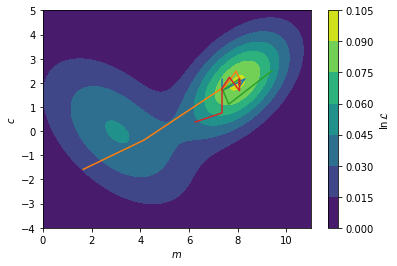
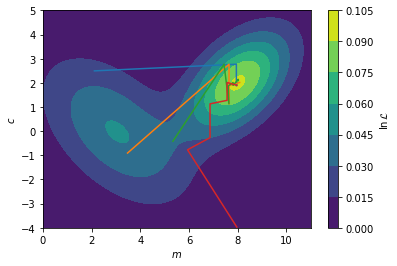
deploy: 2092d52b5d1039ff83758581a9d8e2a471190f30

diff --git a/searchindex.js b/searchindex.js
@@ -1,1 +1,1 @@
-Search.setIndex({docnames:["1_the_fourier_transform/an_introduction_to_fourier_transforms","1_the_fourier_transform/fourier_transforms_for_reflectometry_analysis","2_model_dependent_analysis/what_is_model_dependent_analysis","3_reflectometry_slab_models/how_we_calculate_the_reflectivity_of_a_slab_model","3_reflectometry_slab_models/optical_parameters_for_neutrons_and_xrays","3_reflectometry_slab_models/roughness_and_microslicing","3_reflectometry_slab_models/the_slab_model","4_model_reparameterisation/a_case_for_model_reparameterisation","4_model_reparameterisation/niti_multilayer_example","4_model_reparameterisation/phospholipid_monolayer_example","5_fitting_processes_and_problems/how_do_we_maximise_the_likelihood","5_fitting_processes_and_problems/how_to_leverage_our_prior_knowledge","5_fitting_processes_and_problems/what_is_the_likelihood","contributors","intro"],envversion:{"sphinx.domains.c":2,"sphinx.domains.changeset":1,"sphinx.domains.citation":1,"sphinx.domains.cpp":5,"sphinx.domains.index":1,"sphinx.domains.javascript":2,"sphinx.domains.math":2,"sphinx.domains.python":3,"sphinx.domains.rst":2,"sphinx.domains.std":2,"sphinx.ext.intersphinx":1,"sphinxcontrib.bibtex":9,sphinx:56},filenames:["1_the_fourier_transform/an_introduction_to_fourier_transforms.md","1_the_fourier_transform/fourier_transforms_for_reflectometry_analysis.ipynb","2_model_dependent_analysis/what_is_model_dependent_analysis.md","3_reflectometry_slab_models/how_we_calculate_the_reflectivity_of_a_slab_model.ipynb","3_reflectometry_slab_models/optical_parameters_for_neutrons_and_xrays.ipynb","3_reflectometry_slab_models/roughness_and_microslicing.ipynb","3_reflectometry_slab_models/the_slab_model.md","4_model_reparameterisation/a_case_for_model_reparameterisation.md","4_model_reparameterisation/niti_multilayer_example.ipynb","4_model_reparameterisation/phospholipid_monolayer_example.ipynb","5_fitting_processes_and_problems/how_do_we_maximise_the_likelihood.ipynb","5_fitting_processes_and_problems/how_to_leverage_our_prior_knowledge.md","5_fitting_processes_and_problems/what_is_the_likelihood.ipynb","contributors.md","intro.md"],objects:{},objnames:{},objtypes:{},terms:{"0":[1,3,4,5,9,10,11,12,14],"000":10,"00000j":4,"00001":4,"00039":14,"001":[1,3,5],"00260":14,"003":14,"00461223":4,"0053":14,"007":14,"00890j":4,"012":14,"01934":4,"01980001503076100":14,"02":14,"022":[8,14],"024053695190667e":4,"02614057":10,"0294":14,"03":14,"03156j":4,"033":10,"03342360":4,"044804995824017e":4,"04493869":10,"0469":14,"0478":4,"04893":14,"0496667614679125":12,"05":4,"05139":4,"06":[4,5,8],"06760142":10,"06j":4,"07":14,"074":1,"074e":[1,5],"078":14,"092":10,"0j":[3,5],"1":[0,1,3,4,5,8,9,10,11,12,14],"10":[1,4,5,8,10,12,14],"100":4,"1000":[1,3,9,10,12],"1008202821328":14,"1016":14,"1023":14,"1039":14,"104":1,"1051":14,"106":4,"107":14,"108":14,"1098":14,"10j":4,"11":[4,10,14],"1103":14,"1107":14,"1119":14,"1198":14,"12":[1,5,12,14],"1204":14,"14":[4,5],"15":[9,14],"155":14,"16":[1,3],"167":10,"17":5,"1761":14,"1763":14,"18":[4,9,14],"180":4,"18200033":10,"186":1,"186e":[1,3,5],"19":[9,10,14],"193":14,"1948":14,"194812030504":14,"1954":14,"197":14,"1980":14,"1997":14,"1998":14,"1999":14,"1e":[4,5],"1e6":4,"1f77b4":12,"1j":[1,3],"2":[1,3,4,5,8,10,12,14],"20":[1,3,5],"200":[1,3,5,14],"2005":14,"2006":14,"2007":14,"200q":1,"2010":14,"2011":14,"2018":14,"2019":14,"2021":[4,14],"2022":14,"20384101638663543":12,"204":14,"21":14,"22":4,"23":8,"248":14,"25":1,"25e":5,"26":4,"265":9,"265n_c":9,"2827":14,"2848":14,"297":14,"2f":1,"2k_nk_":5,"3":[1,3,4,5,6,8,10,12,14],"300":[1,3],"311":14,"3254017":14,"33":14,"338":14,"339":14,"341":14,"342":14,"35":4,"357":14,"359":14,"369":14,"370":14,"3blue1brown":0,"3e":8,"4":[1,3,4,5,6,8,10,12,14],"40":14,"41":14,"417":8,"417e":8,"418":14,"42":[12,14],"4245e":5,"434":14,"438":8,"44":14,"4526":14,"46":1,"47":[8,14],"471":14,"4e":4,"5":[1,3,4,5,9,10],"50":[4,5],"500":[1,3,5],"504":14,"51":8,"52":[4,14],"520":14,"53":14,"531":14,"533605403282578e":4,"54":[4,14],"58":8,"59":14,"596":14,"5q":3,"6":[1,3,4,5,8,10,14],"600":4,"6133":14,"6141":14,"646e":4,"648":14,"649":14,"67e":4,"69":8,"7":[4,5,9,10,12],"75e":4,"761":14,"77708968431255":4,"779":14,"78":14,"8":[1,4,5,8,10,12],"817940326e":4,"83e":4,"856832":14,"867":8,"87":14,"871":1,"871e":[3,5],"874":4,"9":[5,8,14],"90":9,"908":8,"91":8,"922868":14,"95":14,"951e":8,"978":14,"98":[1,14],"983011590323767e":4,"99":14,"9957561":10,"99615666":10,"99998503":10,"99999727":10,"\u00e0":14,"\u00e5":[0,1,3,5,8,9],"\u00e8":14,"\u00e9":14,"\u00f6":14,"\u00fc":14,"abel\u00e8":[3,5],"abstract":8,"angstrom\u00b3":4,"br\u00f6hl":14,"case":[1,4,6,11],"do":[1,2],"float":[8,10,12],"function":[1,2,3,5,6,9,10,12],"import":[1,2,3,4,5,6,7,8,9,10,12],"int":1,"new":14,"return":[1,3,4,8,10,12],"switch":14,"true":[7,10],"try":10,"while":[4,7,8],A:[1,2,4,5,6,8,9,10],As:[6,9],Be:10,By:2,For:[1,4,8,9,12,14],If:[1,2,10,11,12,14],In:[1,4,6,7,9,10,11,14],It:[1,2,4,5,6,9,10,11],No:5,One:9,The:[0,2,3,4,5,7,8,9,10,12,14],Then:[1,2,3],There:[5,10],These:[1,5,10],To:[1,5,7],_:[1,3],ab:[1,3],abel:[3,5,14],abeles48:[3,14],abeles_with_rough:5,abl:5,about:[7,9,10,11],abouv:1,abov:[1,2,5,8,10,12],abscissa:12,absolut:10,absorpt:4,academ:14,accept:[1,11],accor:4,accord:4,account:5,accur:[2,5,7],acf2:1,acf:1,achiev:[1,5,9,11],across:12,act:9,action:1,ad:9,adapt:5,add:[4,9],add_patch:5,addit:[1,7,9],addition:[2,3,5,7,8,10],admittedli:5,advanc:14,affect:9,after:[1,4,10],again:[1,5],against:6,agnet:14,agre:12,agreement:[2,10,12],aid:3,aim:[10,12,14],air:[1,4,5,9,14],al:7,alexand:13,algorithm:[2,10,11,14],align:1,all:[0,3,4,10,11],allow:[7,8,9,10],alon:10,alonso:14,alpha:[1,4,12],alpha_0:4,alpha_1:4,alreadi:[2,11],also:[4,8,9],although:1,alwai:4,am:14,amphiphil:9,an:[2,4,5,6,7,10,11,14],analog:[0,10,12],analys:[10,14],analysi:[3,6,8,9,10,11,12,14],analyt:2,andbook:14,andrew:[13,14],angl:4,angstrom:[4,8],ani:[5,12],anlaysi:14,ann:14,anomagnet:14,anoth:1,anphi:14,api:4,apm:9,appear:1,append:10,appl:14,appli:[1,2,5,7,9,10,14],applic:[3,10,14],approach:[1,2,3,5,6,7,8,9,10,14],approx:1,approxim:[3,14],ar:[0,1,2,3,4,5,6,7,8,9,10,11,12,14],area:7,argmax:10,argsort:10,argument:4,armstrong:13,arnold:[13,14],around:[4,5],arrai:[1,3,5,8,10],artefact:5,artifici:14,artur:[4,13],ask:14,assembl:9,assess:10,assign:8,associ:[11,12,14],assum:9,assumpt:[2,7,8,9],ateri:14,atom:[4,8,9],attach:9,attent:14,australian:13,autocorrel:1,avail:1,avogadro:8,awar:[2,10],ax:[1,5,12],axhlin:1,axvlin:1,b:[3,8,14],b_:[3,4,8],b_i:[8,9],b_n:4,b_ni:8,b_ti:8,back:10,balakrishnan:13,bar:[3,12],base:[2,3,8],basic:14,bay:[11,14],bayesian:[11,14],beam:4,becom:[1,4,10],been:[1,3,5,8,9],befor:[0,4,5,6],begin:[1,3],being:[2,5,12,14],belief:11,believ:2,below:[0,1,2,3,5,6,8,9,10,12],benefit:9,berk:14,best:[9,10,12],beta:[1,3,5,8,9],beta_0:3,beta_1:6,beta_2:6,beta_:[1,8,9],beta_i:9,beta_microsl:5,beta_n:3,beta_ni:8,beta_ti:8,between:[0,1,2,3,5,6,10,12,14],bia:2,bias:11,big:1,bigg:[1,12],biolog:[10,14],bj:14,bjorck11:[10,14],bkg:4,black:[1,10],block:14,blue:[1,10,12],bmatrix:3,book:[1,11,14],booklet:4,born:[3,14],borrow:1,both:[9,14],bound:[8,11],bowen:14,bp63:[11,14],brian:13,bring:3,broad:[2,12],broadli:2,brought:3,bsd:3,c6h14:4,c9cp00203k:14,c:[1,4,10,12,14],calcul:[1,2,4,5,6,9,12],call:6,callback:10,campbel:14,can:[1,2,3,4,5,6,7,8,9,10,11,12],cannot:[5,12],caract:14,carbon:9,carefulli:10,caruana:13,cas_no:4,cation:14,catter:14,caus:9,caution:7,cdot:8,centr:13,ch:4,chanc:14,chang:[1,2,10],chapter:4,character:14,characterist:3,characteristic_matric:3,check:4,chem:14,chemic:[6,7,14],chemistri:2,chi:12,chicago:13,choic:4,christi:4,circ:9,clark:14,classic:4,clear:[2,5,6,10],clearer:3,clearli:5,clifton:14,close:[3,4],cm:8,co:[1,4],coci:14,code:[5,8,10,14],coher:4,cold:4,colloid:14,color:12,colorbar:10,com:4,comfort:14,comment:4,common:[2,5,6,8,9,10],commonli:[1,7,10,12],compar:[2,3,5,7,12],comparison:6,complementari:7,complet:[2,10],complex:[3,4,9,10,14],composit:9,computation:10,concept:7,conclus:10,condens:14,conj:3,conjug:3,consid:[1,2,3,5,6,8,9,10,11,12],consider:10,consist:[6,8,9],constant:[2,8,11],constrain:[8,9],constraint:[7,9],construct:[2,3,6,11],consult:9,contain:4,content:14,context:2,continu:14,contourf:10,contrast:10,contribut:[4,14],convenit:4,convers:7,cooper:13,cosin:1,could:[6,11],coupl:10,cours:14,cover:[2,14],creat:5,croce:[5,14],crystal_data:4,crystallogr:14,crystallographi:1,css:[9,14],cu:4,cubitt:14,curr:14,current:[10,14],current_theta:10,curv:4,curve_fit:12,d:[1,3,5,12,14],d_1:6,d_2:6,d_h:9,d_i:9,d_microsl:5,d_n:3,d_t:9,dan:14,data:[1,2,3,4,5,6,7,8,9,10,11,12,14],data_origin:4,databas:8,datapoint:12,dataset:[1,10,12],de:14,decomposit:0,deep:14,def:[1,3,8,10,12],defin:[1,2,4,6,7,8,9,12],definit:4,deg2rad:9,delta:1,denot:1,densiti:[1,3,5,6,7,9],depend:[1,4,6,8,9,10,11,12,14],deposit:8,deriv:[1,6],descent:10,descirb:4,describ:[2,3,4,5,6,7,10,11,12],descript:[1,4,7,9],design:11,desir:[8,10],deslatt:14,destruct:6,detail:[0,1,2],detector:6,determin:[3,10,14],deuter:4,develop:14,deviat:[3,12],devind:[1,11,14],diatom:2,dictionari:4,diff:[1,3],differ:[1,5,6,14],differenti:[10,11,14],differential_evolut:10,difficult:9,diffract:1,dimens:[1,6],dimension:10,dioxid:[1,5],directli:[4,8],discoveri:10,discuss:[1,5,6,12],disposit:8,distanc:1,distinct:1,distribut:[10,12],divid:1,docstr:3,doctrin:14,doe:[2,3,4,5],doi:[4,14],domain:0,done:12,dot:12,downhil:10,dppc:9,dr:[1,11],draw:[10,14],dtype:3,du:14,due:[1,2],dura:14,dvanc:14,e:[4,6,14],e_x:4,each:[3,5,6,8,9],easili:[8,10],edg:4,edgecolor:5,edit:14,editor:14,edler:14,effect:[1,4,5,10,14],effici:14,eflect:14,elast:0,electron:4,element:[4,8,12],elementari:[1,14],eleph:14,els:2,enabl:[5,11],encount:[2,10],end:[1,3],energi:4,ensur:[2,10],entir:2,entri:4,enumer:12,enzym:2,equat:[1,2],equival:4,error:[5,12],errorbar:12,especi:4,essai:14,essenti:0,estim:1,et:7,euroepan:13,european:14,eutect:14,eutron:14,evalu:[8,14],eventu:10,ever:2,everi:9,evolut:[10,11,14],evolutionari:10,exampl:[2,4,5,6,7,10,11],exhaust:14,exist:[5,10],exp:[1,3,5],expand:14,expect:[2,11],experi:[2,4,14],experiment:[2,6,7,12],expert:14,explicitli:1,exploit:14,explor:1,extend:9,extrem:9,f:[1,3,4,8,14],fact:11,factor:[3,4,12],fair:2,fals:5,familiar:[1,2,7],fantast:1,far:12,fashion:10,fe:4,feed:10,feedback:14,feel:14,fernandez:14,ff7f0e:12,field:[4,9,14],fig:[1,5,6,9,12],figsiz:[1,5,12],figur:[1,2,5,10,12,14],file:4,fill:5,fill_between:12,find:[1,2,5,8,9,10,11,12,14],find_peak:1,first:[1,2,3,6,7,8,10,12],fit:[2,7,8,10,12,14],fitzsimmon:14,flat:[1,5],flavour:[7,10],flexion:14,flow:2,fm05:14,fm:8,focu:14,focus:0,follow:[1,8,9,10,12,14],forc:2,form:[1,10],formal:[3,5],format:14,formula:4,found:[1,3,5,8,9,10,11],four:14,fourier:[2,3,6,14],fourier_transform:1,frac:[1,3,4,5,8,9,11,12],fraction:9,francoi:13,free:[7,10,14],frensel:3,fresnel:[3,5],fresnel_reflect:3,fring:1,from:[0,1,2,3,5,6,7,8,9,10,12,14],fstring:4,fu:4,fu_volum:4,full:1,fulli:9,fundament:[0,6],further:[10,11],futur:14,g:[8,14],gaetano:13,gain:1,garbag:2,gcm:8,gener:[2,10,14],genet:14,geometri:6,gerelli:14,get:[2,12],github:[4,14],give:[0,3,7,14],given:[5,6,9,10,12],glavic:[4,13],glob:14,global:[10,14],go:[3,6,10],good:12,gradient:12,gradient_callback:10,gradient_v:10,gradual:14,graphic:8,great:[0,11],greater:1,group:9,grutter:13,guess:10,guntherodt:14,h:14,ha:[1,5,8,9,14],hall:13,hand:5,hard:8,harder:10,have:[1,2,3,9,10,11,12],head:9,heavier:4,heavili:[9,12,14],heavisid:1,heinrich:14,helmholtz:13,helper:[5,10],henc:[0,12],henomena:14,here:[3,4,12],hereon:13,heurist:14,higher:9,hoogerheid:14,hopefulli:6,horizont:1,how:[2,6,7,9,12,14],howard:14,howev:[1,2,5,6,7,8,10,12],hr_formula:4,http:4,hydrocarbon:9,hydrophil:9,hydrophob:[9,14],i10q:1,i:[1,3,4,6,8,9,12],id:4,identifi:5,ignor:[4,5],ill:4,illinoi:13,illustr:4,imag:4,imaginari:4,impact:[0,5],implement:[3,5,10],impli:5,impos:11,improv:2,inaccur:5,incid:[1,6],includ:[0,2,3,8,9,14],incorrectli:5,increas:[5,10,12],independ:2,indic:[1,4,10,12],individu:[3,4,8],induc:14,influenc:5,inform:[1,4,7,14],infti:1,inher:2,initi:10,input:3,insect:10,insight:[2,14],insolubl:9,inspir:10,instead:[1,3,8,10,11],institut:13,instrument:9,integr:11,intens:[1,10],interact:[0,1],intercal:9,intercept:12,interest:[0,2,14],interfac:[3,4,5,6,9,14],interfer:[1,6],interpret:[2,5],interrog:[5,10],introduc:[2,5,6,7,9,11],introduct:[11,14],inv_fourier_transform:1,invalid:4,invers:[1,14],investig:[1,2,7,10],involv:[6,8],iron:4,isbn:14,isi:[13,14],isotop:10,issu:[1,14],its:8,j:14,jackson:14,jci:14,jean:13,john:[7,14],joshaniel:13,jpsc21:[7,14],k0:3,k:[1,3,4,10,14],k_0:3,k_:[3,5],k_n:[3,5],karin:14,kev:4,keyword:4,khairi:14,kienzl:14,kinan:4,kinet:2,kn:3,knowledg:14,known:[2,9],kronm:14,l:[10,11,12,14],la:14,label:[1,3,4,5,10],lak19:14,lakei:14,lambda:4,languag:[7,14],larg:[1,14],later:[6,8],latter:7,law:4,lawrenc:14,layer:[3,4,5,6,8,9],le:14,lead:[0,1,2,4,5,6],leak:5,learn:9,lectromagn:14,left:[4,5],legend:[1,3,4,5],length:[1,3,5,6,7,9],leq:1,less:6,let:[0,1,11],licens:3,light:14,like:[1,2,5,9,11],likelihood:11,limit:[1,2,8,9],line:[1,4,10,12],linearli:12,linspac:[1,3,4,5,9,10,12],lipid:14,liquid:14,list:[4,14],literatur:9,ller:14,ln:[10,12],loadtxt:12,local:10,log:[1,3,5,12],logic:[2,11,14],loglog:4,logpdf:10,lond:14,look:[0,1,2,3,7,10,11,12],loss:1,lost:6,lovel:14,low:3,lr99:[2,14],ls:12,lw:12,m:[3,4,10,12,14],m_:[3,8],m_e:4,m_w:8,m_w_ni:8,m_w_ti:8,made:[2,7,8],magnet:[4,14],magnetic_field:4,magnitud:1,mai:[1,2,7,8,12,14],majkrzak:14,major:[8,12],make:[2,3,4,7,9,14],mangiapia:13,mani:[10,14],maranvil:13,mark:13,marker:12,mass:7,match:[1,4],materi:[1,3,4,5,6,8],mathcal:[10,11,12],mathemat:14,mathit:[1,3],mathrm:[1,3,8,9,12],matnei:14,matplotlib:[1,3,4,5,9,10,12],matric:3,matrix:[3,5],matter:[8,14],matyszewska:14,max:[1,3,12],maxima:10,maximilian:13,maximis:[11,12],maximum:[9,10,11,12],mayer:14,mbd:[1,14],mccluskei:[13,14],mead:10,mean:[1,5,8,9,10,12],measur:[0,1,2,6,7,11,12,14],media:3,member:10,membran:14,menten:2,mention:9,merit:2,meshgrid:10,method:[3,5,14],methodolog:[1,2,5,10],metri:14,metric:[10,12],micel:14,micha:2,might:[2,14],milieux:14,minim:10,minimis:[10,12],minimum:[10,11],mkh10:[2,14],mn_d2o:4,mn_h2o:4,mn_layer:4,modal:10,model:[1,4,5,8,9,10,11,12,14],modifi:[3,5],modul:[4,5,10],mol:8,molecul:[2,7],molecular:8,moment:4,monolay:14,more:[0,2,4,5,7,8,9,10,11,12],most:[3,4,5,6,10],moulin:13,move:10,movement:14,msfe:[9,14],mu:4,much:[3,6],multi:10,multivariate_norm:10,muon:13,must:[2,5,9],mv1:10,mv2:10,mv:10,mx_h2o:4,mx_layer:4,n:[3,4,5,8,9,12,14],n_0:4,n_1:4,n_:[3,12],n_a:8,n_c:9,n_i:4,name:4,nanostructur:14,nation:13,natur:[7,9],nazaruk:14,ndarrai:[1,3,8,10,12],ndata:4,nearbi:10,necessari:[3,5,10],need:2,neg:10,neglig:4,nelder:10,nelson:[13,14],neutron:[0,1,2,3,6,7,8,10,13,14],nevot:5,nevotc80:[5,14],newaxi:[1,3],ni:8,nickel:[5,8],nist:4,nll:10,nois:1,noisi:1,non:10,none:[4,10],norm:12,normal:[1,3,4,10,12],normal_wavevector:3,normalis:[1,12],note:[1,2,9,10],notic:[5,12],now:[0,3,5,9,10,12],np19:[3,14],np:[1,3,4,5,8,9,10,12],nuanc:6,number:[1,4,7,8,9,10,12],number_lay:3,number_q:3,numer:1,numpi:[1,3,4,5,8,9,10,12],o:12,observ:[1,5,6,12],obtain:[1,5,8],obvious:6,offer:2,offset:1,often:14,olar:14,onc:[10,14],ond:14,one:[4,9,10,11,12],ones:3,ones_lik:5,onli:[1,5,8,9,12],onlin:8,open:14,opin:14,opinion:14,optim:[10,12,14],optimis:[9,10],optimum:10,orang:[10,12],order:[4,6,10],organis:14,orient:4,origin:14,orsopi:4,other:[9,12],our:[1,2,5,6,7,8,9,10,12],out:[2,11],outsid:[4,11],over:14,overal:[3,10,12],overview:0,oxford:14,p0:3,p1:3,p:[11,12,14],packag:[3,4,8],page:14,pai:14,panaccion:14,paper:14,par54:[3,14],par:14,param:[1,3,8,12],paramet:[3,5,6,7,8,9,10,11,12,14],parameteris:[7,9,14],pari:14,parker:14,parkin:14,parratt:[3,14],part:[1,4,12],particl:10,particular:[6,7],particularli:14,patch:5,path:[6,10],pattern:[0,1,6],paul:13,pdf:[10,12],peak:1,pedogog:1,pedulla:14,per:7,perfect:5,perfectli:5,perform:[0,1,12],periodict:4,perpendicular:1,pg:1,phase:[1,2,3,14],phase_factor:3,phi:3,phi_0:3,phi_i:9,phi_n:3,phi_t:3,phil:14,phospholipid:14,phy:14,physic:[1,2,6,7,9,14],physica:14,physical_st:4,physrev:14,pi:[1,3,4,12],pictori:9,piec:[1,5,8],pint:8,pkienzl:4,place:11,plane:[1,9],pleas:[4,14],plot:[1,3,5,9,10,12,14],plt:[1,3,4,5,9,10,12],point:12,polar:14,polissag:14,popul:10,popular:2,posit:10,possibl:[1,2,5,6,9,10,12],posterior:11,potenti:4,prepar:[2,8],prescott:14,present:[1,2,5],press:14,pressur:9,preston:14,previou:[2,7],previous:[3,5,7,9],price:14,print:[1,4,8,10],probabl:[11,12],probe:[2,10,11],problem:[1,2,10,14],procedur:14,process:[2,7,8,10,14],prod:3,produc:[1,2,14],product:3,profil:[1,5,6],program:14,programat:4,propag:[3,6,14],propos:2,propto:11,proton:4,psi:4,puriti:4,purnima:13,py:[5,10],pyplot:[1,3,4,5,9,10,12],python:[3,4,14],q2:1,q:[0,1,2,3,4,5,14],q_:1,q_x:1,q_y:1,qualiti:10,quantifi:10,quantiti:[4,14],quelqu:14,queri:4,question:14,quick:1,quickli:1,r2:1,r:[1,3,5,6,9,13,14],r_:[3,4,5],r_abel:3,r_e:4,r_fourier:3,r_microsl:5,r_nevot_croc:5,r_with_rough:5,radiat:[0,1,4],radiu:4,rai:[1,14],random:10,rang:[1,2,3,5,10,14],rasant:14,rather:[2,7,8],ratio:6,ration:10,rationalis:1,rayon:14,rck:14,re:10,reach:[8,10],read:14,real:[3,4,5,6],realli:2,reason:8,recent:[9,14],reciev:14,reciproc:4,rectangl:5,recurs:3,red:5,reduc:[7,9],ref_websit:4,refer:4,refin:6,reflecit:4,reflect:[1,2,5,6],reflectmodel:4,reflecto:14,reflectometri:[0,2,3,4,5,6,7,8,9,10,12],refnx:[3,4,14],refract:[3,6],region:[1,5,9,10],rel:4,relat:8,relationship:1,relev:[9,14],reli:3,render:1,reparameteris:[6,8,9,12,14],repeat:8,repositori:14,repres:[2,12],reproduc:3,requir:[7,14],res1:10,res2:10,resolut:[1,2],respect:[1,4],result:[1,2,3,4,5,6,10],resultant_matrix:3,retriv:1,rev:14,review:14,rewrit:1,rho:[3,4,8],rho_:[4,8],rho_fu_lay:4,rho_fu_wat:4,rho_n:4,rho_ni:8,rho_of_:4,rho_ti:8,rho_to_beta:8,rho_vs_:4,richardson:14,right:[1,4,5],risat:14,robust:10,room:8,root:10,rout:10,rphysap:14,rsta:14,rstl:14,rule:5,s0021889811041446:14,s0921:14,s1359:14,s1600576718017016:14,s1600576718017296:14,s:[0,1,4,8,9,10,11,14],saaka:14,sai:1,same:[1,4,5,6,8,12],sampl:[0,1,2,4,5,8],sanchez:14,sansom:14,satija:14,scale:[1,14],scatter:[0,1,3,5,6,7,9,13,14],sche:14,scherrer:13,schlossman:13,school:14,sci:14,scienc:[2,14],scipi:[1,8,10,12],scope:4,search:[4,14],second:4,section:[2,6,7,10],see:[4,5,6,10],seen:[11,12],select:12,self:9,semi:10,semilog:4,sensit:1,separ:1,seri:[1,3,5,6],set:8,set_xlabel:[1,5,12],set_xlim:5,set_ylabel:[1,5,12],set_ylim:5,shao:14,shape:[3,10],shortest:5,should:[1,4,5,7,9,10,12,14],show:[1,2,3,5,6,8,9,10,12,14],shown:[1,2,3,5,6,9,10,12],si:1,sigma2:5,sigma3:5,sigma5:5,sigma7:5,sigma:[5,12],sigma_:5,sigma_n:12,sign:4,signal:1,silic:14,silicon:[1,5,8],similar:[2,3],simpl:[1,2,4,6,7,8,9,10,11,14],simpli:10,simul:[2,5,6,7,8],sin:[4,9],singl:[9,12],sio_2:1,sit:[9,12],siv11:[1,14],sivia:[1,11,14],sj06:[11,14],skill:14,skip:14,sko19:14,skoda:[13,14],slab:[5,7,9,14],sld_:4,sld_n:4,sld_with_rough:5,sld_x:4,slddb:4,sldn_d2o:4,sldn_h2o:4,sldn_layer:4,sldx_layer:4,sldx_water:4,smooth:[1,5],snell:4,so:12,soc:14,soft:14,solid:[4,14],solubl:9,solut:10,solv:14,solvat:9,solvent:[9,14],some:[0,1,2,5,6,9,10,11,12,14],someth:[0,2,4],son:14,sourc:[4,13,14],sp97:[10,14],space:[0,4,10,14],spallat:[13,14],speak:9,specif:[7,9],spectra:2,specular:14,spin:4,spintron:14,springer:14,sqrt:3,squar:[1,3],sratifi:14,staff:9,standard:[12,13,14],start:[10,11],stat:[10,12],state:11,std:1,step:[1,5,10,11],stephen:13,still:[5,8],storn:14,straight_lin:12,straightforward:7,strand:9,stratifi:3,structur:[1,2,4,7,8,14],studi:[1,2,9,14],subject:14,subplot:[1,5,12],suggest:[11,14],sum:[1,3,4,8],sum_:[4,8,9,12],summat:12,superphas:3,sur:14,sure:14,surfac:[1,3,4,8,14],surfact:14,swarm:10,syntax:4,syntaxerror:4,synthesi:2,system:[1,2,5,6,7,8,9,10,14],t:[10,14],t_t:9,tabl:4,tabul:4,tackl:2,tag:4,tail:9,take:[0,2,10,11],taken:[3,6],tan80:[9,14],tanford:[9,14],techniqu:[7,14],technolog:13,temperatur:[4,8],tend:1,term:[6,8,9,12],text:1,textbook:4,textquotesingl:14,than:[1,5,8,10],thei:[1,10,14],them:[5,12],theorem:11,theori:[1,14],therefor:[1,2,5,7,8,10,11],thermal:4,theta:[9,10,11,12],thi:[0,1,2,3,4,5,6,7,8,9,10,11,12],thick:[1,3,5,6,9],thin:5,thing:2,think:7,thopson:4,those:[4,11],thought:1,three:[2,8],through:[3,5,6,14],thu:4,thumb:5,tight_layout:12,time:[0,1,5,8],times10:1,tiqu:14,titanium:8,tkh:[10,14],togeth:3,tom:13,tool:[1,2,7],top4:10,top:1,toperverg:14,total:14,toward:[1,10,14],tradit:[8,9,14],tran:14,transform:[2,3,6,14],translat:7,transmitt:3,treec:14,trigonometri:9,tude:14,turn:10,tutori:[11,14],two:[1,2,3,5,6,7,9,10],txt:12,typic:[2,4,5,6,7,8,9,10,12],tz07:14,u:8,uantum:14,uncertainti:12,unclear:8,under:[1,3,9],underli:[2,12],understand:[1,2,3,6,7,11,14],unintuit:7,uniqu:10,unit:[0,4],unitregistri:8,univers:[13,14],unlik:9,unphys:[1,5],unspecifi:4,until:8,up:10,uphil:10,us:[2,3,4,5,7,8,9,10,11,12,14],useless:1,user:[1,14],utilis:1,valid:4,validated_bi:4,valu:[1,3,4,8,9,10,11,12],valuabl:1,vari:[8,10],variabl:8,varieti:10,variou:4,vector:3,veri:[5,9,10],verr:14,version:1,vibrat:2,video:0,visualis:[1,5],vot:14,w:[8,14],wa:[1,2,6,11,14],wai:[2,4,9],watch:0,water:[4,9,14],wave:[3,6],wavelength:4,wavevector:[1,3],wc19:14,we:[0,1,2,4,5,6,7,8,9,11,12,14],webpag:14,weight:8,welbourn:14,well:2,were:11,what:14,when:[3,6,9,10,11,12],where:[1,2,3,4,5,6,8,9,10,11,12],which:[0,1,3,5,8,9,10,11,12],width:5,wiesendang:14,wikipedia:4,wilei:14,within:11,without:[1,2,5],word:[2,14],work:[5,7,14],workflow:2,workshop:14,wormington:14,would:[1,2,5,6,9,11],wpmb99:[10,14],written:[1,12],wwe:9,x:[1,10,12,14],x_n:12,xlabel:[1,3,4,5,9,10],xlim:4,xy:9,y:[10,11,12,14],y_fit:12,y_n:12,ylabel:[1,3,4,5,9,10],ylim:4,you:[1,2,11,12,14],your:[9,14],yscale:[1,3,5],yy:12,z:[1,3,5,6],zabel:14,zentrum:13,zero:3,zeros_lik:[1,3],zhou:14,zorder:12,zq:1,ztbt07:14},titles:["An introduction to Fourier transforms","Fourier transforms for reflectometry analysis","What is model-dependent analysis?","How we calculate the reflectivity of a slab model","Optical parameters for neutrons and x-rays","Roughness and microslicing","The \u201cslab model\u201d","A case for model reparameterisation","NiTi multilayer example","Phospholipid monolayer example","How do we maximise the likelihood?","How to leverage our prior knowledge?","What is the likelihood?","Contributors","A Guide to Reflectometry"],titleterms:{"case":7,"do":10,A:[7,11,14],The:[1,6],about:14,algorithm:3,an:[0,1],analysi:[1,2],angl:9,approxim:1,area:9,bibliographi:14,born:1,calcul:3,chain:9,contrast:4,contributor:13,databas:4,densiti:[4,8],depend:2,differ:4,exampl:[1,8,9],fourier:[0,1],fresnel:4,from:4,gradient:10,guid:14,how:[3,10,11],implic:4,index:4,interfac:1,interfaci:5,introduct:0,knowledg:11,layer:1,length:[4,8],leverag:11,likelihood:[10,12],mass:8,materi:14,maximis:10,method:10,microsl:5,model:[2,3,6,7],molecul:9,monolay:9,multilay:8,neutron:4,niti:8,optic:4,orso:4,our:11,oxid:1,paramet:4,per:9,phospholipid:9,prior:11,problem:5,rai:4,reflect:[3,4,14],reflectometri:[1,14],refract:4,reparameteris:7,retreiv:4,rough:5,scatter:[4,8],singl:1,slab:[3,6],sld:4,specular:1,stochast:10,term:4,thi:14,tilt:9,transform:[0,1],uniform:11,us:1,vs:14,we:[3,10],what:[0,2,12],x:4}})
+Search.setIndex({docnames:["1_the_fourier_transform/an_introduction_to_fourier_transforms","1_the_fourier_transform/fourier_transforms_for_reflectometry_analysis","2_model_dependent_analysis/what_is_model_dependent_analysis","3_reflectometry_slab_models/how_we_calculate_the_reflectivity_of_a_slab_model","3_reflectometry_slab_models/optical_parameters_for_neutrons_and_xrays","3_reflectometry_slab_models/roughness_and_microslicing","3_reflectometry_slab_models/the_slab_model","4_model_reparameterisation/a_case_for_model_reparameterisation","4_model_reparameterisation/niti_multilayer_example","4_model_reparameterisation/phospholipid_monolayer_example","5_fitting_processes_and_problems/how_do_we_maximise_the_likelihood","5_fitting_processes_and_problems/how_to_leverage_our_prior_knowledge","5_fitting_processes_and_problems/what_is_the_likelihood","contributors","intro"],envversion:{"sphinx.domains.c":2,"sphinx.domains.changeset":1,"sphinx.domains.citation":1,"sphinx.domains.cpp":5,"sphinx.domains.index":1,"sphinx.domains.javascript":2,"sphinx.domains.math":2,"sphinx.domains.python":3,"sphinx.domains.rst":2,"sphinx.domains.std":2,"sphinx.ext.intersphinx":1,"sphinxcontrib.bibtex":9,sphinx:56},filenames:["1_the_fourier_transform/an_introduction_to_fourier_transforms.md","1_the_fourier_transform/fourier_transforms_for_reflectometry_analysis.ipynb","2_model_dependent_analysis/what_is_model_dependent_analysis.md","3_reflectometry_slab_models/how_we_calculate_the_reflectivity_of_a_slab_model.ipynb","3_reflectometry_slab_models/optical_parameters_for_neutrons_and_xrays.ipynb","3_reflectometry_slab_models/roughness_and_microslicing.ipynb","3_reflectometry_slab_models/the_slab_model.md","4_model_reparameterisation/a_case_for_model_reparameterisation.md","4_model_reparameterisation/niti_multilayer_example.ipynb","4_model_reparameterisation/phospholipid_monolayer_example.ipynb","5_fitting_processes_and_problems/how_do_we_maximise_the_likelihood.ipynb","5_fitting_processes_and_problems/how_to_leverage_our_prior_knowledge.md","5_fitting_processes_and_problems/what_is_the_likelihood.ipynb","contributors.md","intro.md"],objects:{},objnames:{},objtypes:{},terms:{"0":[1,3,4,5,9,10,11,12,14],"000":10,"00000j":4,"00001":4,"00039":14,"001":[1,3,5],"00260":14,"003":14,"00461223":4,"0053":14,"007":14,"00890j":4,"012":14,"01934":4,"01980001503076100":14,"02":14,"022":[8,14],"024053695190667e":4,"02614057":10,"0294":14,"03":14,"03156j":4,"033":10,"03342360":4,"044804995824017e":4,"04493869":10,"0469":14,"0478":4,"04893":14,"0496667614679125":12,"05":4,"05139":4,"06":[4,5,8],"06j":4,"07":14,"074":1,"074e":[1,5],"078":14,"092":10,"09425021":10,"0j":[3,5],"1":[0,1,3,4,5,8,9,10,11,12,14],"10":[1,4,5,8,10,12,14],"100":4,"1000":[1,3,9,10,12],"1008202821328":14,"1016":14,"1023":14,"1039":14,"104":1,"1051":14,"106":4,"107":14,"108":14,"1098":14,"10j":4,"11":[4,10,14],"1103":14,"1107":14,"1119":14,"1198":14,"12":[1,5,12,14],"1204":14,"14":[4,5],"15":[9,14],"155":14,"16":[1,3],"167":10,"17":5,"1761":14,"1763":14,"18":[4,9,14],"180":4,"186":1,"186e":[1,3,5],"19":[9,10,14],"193":14,"1948":14,"194812030504":14,"1954":14,"197":14,"1980":14,"1997":14,"1998":14,"1999":14,"1e":[4,5],"1e6":4,"1f77b4":12,"1j":[1,3],"2":[1,3,4,5,8,10,12,14],"20":[1,3,5],"200":[1,3,5,14],"2005":14,"2006":14,"2007":14,"200q":1,"2010":14,"2011":14,"2018":14,"2019":14,"2021":[4,14],"2022":14,"20384101638663543":12,"204":14,"21":14,"22":4,"23":8,"248":14,"25":1,"25e":5,"26":4,"265":9,"265n_c":9,"2827":14,"2848":14,"297":14,"2f":1,"2k_nk_":5,"3":[1,3,4,5,6,8,10,12,14],"300":[1,3],"311":14,"3254017":14,"33":14,"338":14,"339":14,"341":14,"342":14,"35":4,"357":14,"359":14,"369":14,"370":14,"3blue1brown":0,"3e":8,"4":[1,3,4,5,6,8,10,12,14],"40":14,"41":14,"417":8,"417e":8,"418":14,"42":[12,14],"4245e":5,"434":14,"438":8,"44":14,"4526":14,"46":1,"47":[8,14],"471":14,"4e":4,"5":[1,3,4,5,9,10],"50":[4,5],"500":[1,3,5],"504":14,"51":8,"52":[4,14],"520":14,"53":14,"531":14,"533605403282578e":4,"54":[4,14],"58":8,"59":14,"596":14,"5q":3,"6":[1,3,4,5,8,10,14],"600":4,"6133":14,"6141":14,"646e":4,"648":14,"649":14,"67e":4,"69":8,"7":[4,5,9,10,12],"75e":4,"761":14,"77708968431255":4,"779":14,"78":14,"8":[1,4,5,8,10,12],"817940326e":4,"83e":4,"856832":14,"867":8,"87":14,"871":1,"871e":[3,5],"874":4,"88828221":10,"9":[5,8,14],"90":9,"908":8,"91":8,"922868":14,"95":14,"951e":8,"978":14,"98":[1,14],"983011590323767e":4,"99":14,"9957561":10,"99615666":10,"99998503":10,"99999727":10,"\u00e0":14,"\u00e5":[0,1,3,5,8,9],"\u00e8":14,"\u00e9":14,"\u00f6":14,"\u00fc":14,"abel\u00e8":[3,5],"abstract":8,"angstrom\u00b3":4,"br\u00f6hl":14,"case":[1,4,6,11],"do":[1,2],"float":[8,10,12],"function":[1,2,3,5,6,9,10,12],"import":[1,2,3,4,5,6,7,8,9,10,12],"int":1,"new":14,"return":[1,3,4,8,10,12],"switch":14,"true":[7,10],"try":10,"while":[4,7,8],A:[1,2,4,5,6,8,9,10],As:[6,9],Be:10,By:2,For:[1,4,8,9,12,14],If:[1,2,10,11,12,14],In:[1,4,6,7,9,10,11,14],It:[1,2,4,5,6,9,10,11],No:5,One:9,The:[0,2,3,4,5,7,8,9,10,12,14],Then:[1,2,3],There:[5,10],These:[1,5,10],To:[1,5,7],_:[1,3],ab:[1,3],abel:[3,5,14],abeles48:[3,14],abeles_with_rough:5,abl:5,about:[7,9,10,11],abouv:1,abov:[1,2,5,8,10,12],abscissa:12,absolut:10,absorpt:4,academ:14,accept:[1,11],accor:4,accord:4,account:5,accur:[2,5,7],acf2:1,acf:1,achiev:[1,5,9,11],across:12,act:9,action:1,ad:9,adapt:5,add:[4,9],add_patch:5,addit:[1,7,9],addition:[2,3,5,7,8,10],admittedli:5,advanc:14,affect:9,after:[1,4,10],again:[1,5],against:6,agnet:14,agre:12,agreement:[2,10,12],aid:3,aim:[10,12,14],air:[1,4,5,9,14],al:7,alexand:13,algorithm:[2,10,11,14],align:1,all:[0,3,4,10,11],allow:[7,8,9,10],alon:10,alonso:14,alpha:[1,4,12],alpha_0:4,alpha_1:4,alreadi:[2,11],also:[4,8,9],although:1,alwai:4,am:14,amphiphil:9,an:[2,4,5,6,7,10,11,14],analog:[0,10,12],analys:[10,14],analysi:[3,6,8,9,10,11,12,14],analyt:2,andbook:14,andrew:[13,14],angl:4,angstrom:[4,8],ani:[5,12],anlaysi:14,ann:14,anomagnet:14,anoth:1,anphi:14,api:4,apm:9,appear:1,append:10,appl:14,appli:[1,2,5,7,9,10,14],applic:[3,10,14],approach:[1,2,3,5,6,7,8,9,10,14],approx:1,approxim:[3,14],ar:[0,1,2,3,4,5,6,7,8,9,10,11,12,14],area:7,argmax:10,argsort:10,argument:4,armstrong:13,arnold:[13,14],around:[4,5],arrai:[1,3,5,8,10],artefact:5,artifici:14,artur:[4,13],ask:14,assembl:9,assess:10,assign:8,associ:[11,12,14],assum:9,assumpt:[2,7,8,9],ateri:14,atom:[4,8,9],attach:9,attent:14,australian:13,autocorrel:1,avail:1,avogadro:8,awar:[2,10],ax:[1,5,12],axhlin:1,axvlin:1,b:[3,8,14],b_:[3,4,8],b_i:[8,9],b_n:4,b_ni:8,b_ti:8,back:10,balakrishnan:13,bar:[3,12],base:[2,3,8],basic:14,bay:[11,14],bayesian:[11,14],beam:4,becom:[1,4,10],been:[1,3,5,8,9],befor:[0,4,5,6],begin:[1,3],being:[2,5,12,14],belief:11,believ:2,below:[0,1,2,3,5,6,8,9,10,12],benefit:9,berk:14,best:[9,10,12],beta:[1,3,5,8,9],beta_0:3,beta_1:6,beta_2:6,beta_:[1,8,9],beta_i:9,beta_microsl:5,beta_n:3,beta_ni:8,beta_ti:8,between:[0,1,2,3,5,6,10,12,14],bia:2,bias:11,big:1,bigg:[1,12],biolog:[10,14],bj:14,bjorck11:[10,14],bkg:4,black:[1,10],block:14,blue:[1,10,12],bmatrix:3,book:[1,11,14],booklet:4,born:[3,14],borrow:1,both:[9,14],bound:[8,11],bowen:14,bp63:[11,14],brian:13,bring:3,broad:[2,12],broadli:2,brought:3,bsd:3,c6h14:4,c9cp00203k:14,c:[1,4,10,12,14],calcul:[1,2,4,5,6,9,12],call:6,callback:10,campbel:14,can:[1,2,3,4,5,6,7,8,9,10,11,12],cannot:[5,12],caract:14,carbon:9,carefulli:10,caruana:13,cas_no:4,cation:14,catter:14,caus:9,caution:7,cdot:8,centr:13,ch:4,chanc:14,chang:[1,2,10],chapter:4,character:14,characterist:3,characteristic_matric:3,check:4,chem:14,chemic:[6,7,14],chemistri:2,chi:12,chicago:13,choic:4,christi:4,circ:9,clark:14,classic:4,clear:[2,5,6,10],clearer:3,clearli:5,clifton:14,close:[3,4],cm:8,co:[1,4],coci:14,code:[5,8,10,14],coher:4,cold:4,colloid:14,color:12,colorbar:10,com:4,comfort:14,comment:4,common:[2,5,6,8,9,10],commonli:[1,7,10,12],compar:[2,3,5,7,12],comparison:6,complementari:7,complet:[2,10],complex:[3,4,9,10,14],composit:9,computation:10,concept:7,conclus:10,condens:14,conj:3,conjug:3,consid:[1,2,3,5,6,8,9,10,11,12],consider:10,consist:[6,8,9],constant:[2,8,11],constrain:[8,9],constraint:[7,9],construct:[2,3,6,11],consult:9,contain:4,content:14,context:2,continu:14,contourf:10,contrast:10,contribut:[4,14],convenit:4,convers:7,cooper:13,cosin:1,could:[6,11],coupl:10,cours:14,cover:[2,14],creat:5,croce:[5,14],crystal_data:4,crystallogr:14,crystallographi:1,css:[9,14],cu:4,cubitt:14,curr:14,current:[10,14],current_theta:10,curv:4,curve_fit:12,d:[1,3,5,12,14],d_1:6,d_2:6,d_h:9,d_i:9,d_microsl:5,d_n:3,d_t:9,dan:14,data:[1,2,3,4,5,6,7,8,9,10,11,12,14],data_origin:4,databas:8,datapoint:12,dataset:[1,10,12],de:14,decomposit:0,deep:14,def:[1,3,8,10,12],defin:[1,2,4,6,7,8,9,12],definit:4,deg2rad:9,delta:1,denot:1,densiti:[1,3,5,6,7,9],depend:[1,4,6,8,9,10,11,12,14],deposit:8,deriv:[1,6],descent:10,descirb:4,describ:[2,3,4,5,6,7,10,11,12],descript:[1,4,7,9],design:11,desir:[8,10],deslatt:14,destruct:6,detail:[0,1,2],detector:6,determin:[3,10,14],deuter:4,develop:14,deviat:[3,12],devind:[1,11,14],diatom:2,dictionari:4,diff:[1,3],differ:[1,5,6,14],differenti:[10,11,14],differential_evolut:10,difficult:9,diffract:1,dimens:[1,6],dimension:10,dioxid:[1,5],directli:[4,8],discoveri:10,discuss:[1,5,6,12],disposit:8,distanc:1,distinct:1,distribut:[10,12],divid:1,docstr:3,doctrin:14,doe:[2,3,4,5],doi:[4,14],domain:0,done:12,dot:12,downhil:10,dppc:9,dr:[1,11],draw:[10,14],dtype:3,du:14,due:[1,2],dura:14,dvanc:14,e:[4,6,14],e_x:4,each:[3,5,6,8,9],easili:[8,10],edg:4,edgecolor:5,edit:14,editor:14,edler:14,effect:[1,4,5,10,14],effici:14,eflect:14,elast:0,electron:4,element:[4,8,12],elementari:[1,14],eleph:14,els:2,enabl:[5,11],encount:[2,10],end:[1,3],energi:4,ensur:[2,10],entir:2,entri:4,enumer:12,enzym:2,equat:[1,2],equival:4,error:[5,12],errorbar:12,especi:4,essai:14,essenti:0,estim:1,et:7,euroepan:13,european:14,eutect:14,eutron:14,evalu:[8,14],eventu:10,ever:2,everi:9,evolut:[10,11,14],evolutionari:10,exampl:[2,4,5,6,7,10,11],exhaust:14,exist:[5,10],exp:[1,3,5],expand:14,expect:[2,11],experi:[2,4,14],experiment:[2,6,7,12],expert:14,explicitli:1,exploit:14,explor:1,extend:9,extrem:9,f:[1,3,4,8,14],fact:11,factor:[3,4,12],fair:2,fals:5,familiar:[1,2,7],fantast:1,far:12,fashion:10,fe:4,feed:10,feedback:14,feel:14,fernandez:14,ff7f0e:12,field:[4,9,14],fig:[1,5,6,9,12],figsiz:[1,5,12],figur:[1,2,5,10,12,14],file:4,fill:5,fill_between:12,find:[1,2,5,8,9,10,11,12,14],find_peak:1,first:[1,2,3,6,7,8,10,12],fit:[2,7,8,10,12,14],fitzsimmon:14,flat:[1,5],flavour:[7,10],flexion:14,flow:2,fm05:14,fm:8,focu:14,focus:0,follow:[1,8,9,10,12,14],forc:2,form:[1,10],formal:[3,5],format:14,formula:4,found:[1,3,5,8,9,10,11],four:14,fourier:[2,3,6,14],fourier_transform:1,frac:[1,3,4,5,8,9,11,12],fraction:9,francoi:13,free:[7,10,14],frensel:3,fresnel:[3,5],fresnel_reflect:3,fring:1,from:[0,1,2,3,5,6,7,8,9,10,12,14],fstring:4,fu:4,fu_volum:4,full:1,fulli:9,fundament:[0,6],further:[10,11],futur:14,g:[8,14],gaetano:13,gain:1,garbag:2,gcm:8,gener:[2,10,14],genet:14,geometri:6,gerelli:14,get:[2,12],github:[4,14],give:[0,3,7,14],given:[5,6,9,10,12],glavic:[4,13],glob:14,global:[10,14],go:[3,6,10],good:12,gradient:12,gradient_callback:10,gradient_v:10,gradual:14,graphic:8,great:[0,11],greater:1,group:9,grutter:13,guess:10,guntherodt:14,h:14,ha:[1,5,8,9,14],hall:13,hand:5,hard:8,harder:10,have:[1,2,3,9,10,11,12],head:9,heavier:4,heavili:[9,12,14],heavisid:1,heinrich:14,helmholtz:13,helper:[5,10],henc:[0,12],henomena:14,here:[3,4,12],hereon:13,heurist:14,higher:9,hoogerheid:14,hopefulli:6,horizont:1,how:[2,6,7,9,12,14],howard:14,howev:[1,2,5,6,7,8,10,12],hr_formula:4,http:4,hydrocarbon:9,hydrophil:9,hydrophob:[9,14],i10q:1,i:[1,3,4,6,8,9,12],id:4,identifi:5,ignor:[4,5],ill:4,illinoi:13,illustr:4,imag:4,imaginari:4,impact:[0,5],implement:[3,5,10],impli:5,impos:11,improv:2,inaccur:5,incid:[1,6],includ:[0,2,3,8,9,14],incorrectli:5,increas:[5,10,12],independ:2,indic:[1,4,10,12],individu:[3,4,8],induc:14,influenc:5,inform:[1,4,7,14],infti:1,inher:2,initi:10,input:3,insect:10,insight:[2,14],insolubl:9,inspir:10,instead:[1,3,8,10,11],institut:13,instrument:9,integr:11,intens:[1,10],interact:[0,1],intercal:9,intercept:12,interest:[0,2,14],interfac:[3,4,5,6,9,14],interfer:[1,6],interpret:[2,5],interrog:[5,10],introduc:[2,5,6,7,9,11],introduct:[11,14],inv_fourier_transform:1,invalid:4,invers:[1,14],investig:[1,2,7,10],involv:[6,8],iron:4,isbn:14,isi:[13,14],isotop:10,issu:[1,14],its:8,j:14,jackson:14,jci:14,jean:13,john:[7,14],joshaniel:13,jpsc21:[7,14],k0:3,k:[1,3,4,10,14],k_0:3,k_:[3,5],k_n:[3,5],karin:14,kev:4,keyword:4,khairi:14,kienzl:14,kinan:4,kinet:2,kn:3,knowledg:14,known:[2,9],kronm:14,l:[10,11,12,14],la:14,label:[1,3,4,5,10],lak19:14,lakei:14,lambda:4,languag:[7,14],larg:[1,14],later:[6,8],latter:7,law:4,lawrenc:14,layer:[3,4,5,6,8,9],le:14,lead:[0,1,2,4,5,6],leak:5,learn:9,lectromagn:14,left:[4,5],legend:[1,3,4,5],length:[1,3,5,6,7,9],leq:1,less:6,let:[0,1,11],licens:3,light:14,like:[1,2,5,9,11],likelihood:11,limit:[1,2,8,9],line:[1,4,10,12],linearli:12,linspac:[1,3,4,5,9,10,12],lipid:14,liquid:14,list:[4,14],literatur:9,ller:14,ln:[10,12],loadtxt:12,local:10,log:[1,3,5,12],logic:[2,11,14],loglog:4,logpdf:10,lond:14,look:[0,1,2,3,7,10,11,12],loss:1,lost:6,lovel:14,low:3,lr99:[2,14],ls:12,lw:12,m:[3,4,10,12,14],m_:[3,8],m_e:4,m_w:8,m_w_ni:8,m_w_ti:8,made:[2,7,8],magnet:[4,14],magnetic_field:4,magnitud:1,mai:[1,2,7,8,12,14],majkrzak:14,major:[8,12],make:[2,3,4,7,9,14],mangiapia:13,mani:[10,14],maranvil:13,mark:13,marker:12,mass:7,match:[1,4],materi:[1,3,4,5,6,8],mathcal:[10,11,12],mathemat:14,mathit:[1,3],mathrm:[1,3,8,9,12],matnei:14,matplotlib:[1,3,4,5,9,10,12],matric:3,matrix:[3,5],matter:[8,14],matyszewska:14,max:[1,3,12],maxima:10,maximilian:13,maximis:[11,12],maximum:[9,10,11,12],mayer:14,mbd:[1,14],mccluskei:[13,14],mead:10,mean:[1,5,8,9,10,12],measur:[0,1,2,6,7,11,12,14],media:3,member:10,membran:14,menten:2,mention:9,merit:2,meshgrid:10,method:[3,5,14],methodolog:[1,2,5,10],metri:14,metric:[10,12],micel:14,micha:2,might:[2,14],milieux:14,minim:10,minimis:[10,12],minimum:[10,11],mkh10:[2,14],mn_d2o:4,mn_h2o:4,mn_layer:4,modal:10,model:[1,4,5,8,9,10,11,12,14],modifi:[3,5],modul:[4,5,10],mol:8,molecul:[2,7],molecular:8,moment:4,monolay:14,more:[0,2,4,5,7,8,9,10,11,12],most:[3,4,5,6,10],moulin:13,move:10,movement:14,msfe:[9,14],mu:4,much:[3,6],multi:10,multivariate_norm:10,muon:13,must:[2,5,9],mv1:10,mv2:10,mv:10,mx_h2o:4,mx_layer:4,n:[3,4,5,8,9,12,14],n_0:4,n_1:4,n_:[3,12],n_a:8,n_c:9,n_i:4,name:4,nanostructur:14,nation:13,natur:[7,9],nazaruk:14,ndarrai:[1,3,8,10,12],ndata:4,nearbi:10,necessari:[3,5,10],need:2,neg:10,neglig:4,nelder:10,nelson:[13,14],neutron:[0,1,2,3,6,7,8,10,13,14],nevot:5,nevotc80:[5,14],newaxi:[1,3],ni:8,nickel:[5,8],nist:4,nll:10,nois:1,noisi:1,non:10,none:[4,10],norm:12,normal:[1,3,4,10,12],normal_wavevector:3,normalis:[1,12],note:[1,2,9,10],notic:[5,12],now:[0,3,5,9,10,12],np19:[3,14],np:[1,3,4,5,8,9,10,12],nuanc:6,number:[1,4,7,8,9,10,12],number_lay:3,number_q:3,numer:1,numpi:[1,3,4,5,8,9,10,12],o:12,observ:[1,5,6,12],obtain:[1,5,8],obvious:6,offer:2,offset:1,often:14,olar:14,onc:[10,14],ond:14,one:[4,9,10,11,12],ones:3,ones_lik:5,onli:[1,5,8,9,12],onlin:8,open:14,opin:14,opinion:14,optim:[10,12,14],optimis:[9,10],optimum:10,orang:[10,12],order:[4,6,10],organis:14,orient:4,origin:14,orsopi:4,other:[9,12],our:[1,2,5,6,7,8,9,10,12],out:[2,11],outsid:[4,11],over:14,overal:[3,10,12],overview:0,oxford:14,p0:3,p1:3,p:[11,12,14],packag:[3,4,8],page:14,pai:14,panaccion:14,paper:14,par54:[3,14],par:14,param:[1,3,8,12],paramet:[3,5,6,7,8,9,10,11,12,14],parameteris:[7,9,14],pari:14,parker:14,parkin:14,parratt:[3,14],part:[1,4,12],particl:10,particular:[6,7],particularli:14,patch:5,path:[6,10],pattern:[0,1,6],paul:13,pdf:[10,12],peak:1,pedogog:1,pedulla:14,per:7,perfect:5,perfectli:5,perform:[0,1,12],periodict:4,perpendicular:1,pg:1,phase:[1,2,3,14],phase_factor:3,phi:3,phi_0:3,phi_i:9,phi_n:3,phi_t:3,phil:14,phospholipid:14,phy:14,physic:[1,2,6,7,9,14],physica:14,physical_st:4,physrev:14,pi:[1,3,4,12],pictori:9,piec:[1,5,8],pint:8,pkienzl:4,place:11,plane:[1,9],pleas:[4,14],plot:[1,3,5,9,10,12,14],plt:[1,3,4,5,9,10,12],point:12,polar:14,polissag:14,popul:10,popular:2,posit:10,possibl:[1,2,5,6,9,10,12],posterior:11,potenti:4,prepar:[2,8],prescott:14,present:[1,2,5],press:14,pressur:9,preston:14,previou:[2,7],previous:[3,5,7,9],price:14,print:[1,4,8,10],probabl:[11,12],probe:[2,10,11],problem:[1,2,10,14],procedur:14,process:[2,7,8,10,14],prod:3,produc:[1,2,14],product:3,profil:[1,5,6],program:14,programat:4,propag:[3,6,14],propos:2,propto:11,proton:4,psi:4,puriti:4,purnima:13,py:[5,10],pyplot:[1,3,4,5,9,10,12],python:[3,4,14],q2:1,q:[0,1,2,3,4,5,14],q_:1,q_x:1,q_y:1,qualiti:10,quantifi:10,quantit:1,quantiti:[4,14],quelqu:14,queri:4,question:14,quick:1,quickli:1,r2:1,r:[1,3,5,6,9,13,14],r_:[3,4,5],r_abel:3,r_e:4,r_fourier:3,r_microsl:5,r_nevot_croc:5,r_with_rough:5,radiat:[0,1,4],radiu:4,rai:[1,14],random:10,rang:[1,2,3,5,10,14],rasant:14,rather:[2,7,8],ratio:6,ration:10,rationalis:1,rayon:14,rck:14,re:10,reach:[8,10],read:14,real:[3,4,5,6],realli:2,reason:8,recent:[9,14],reciev:14,reciproc:4,rectangl:5,recurs:3,red:5,reduc:[7,9],ref_websit:4,refer:4,refin:6,reflecit:4,reflect:[1,2,5,6],reflectmodel:4,reflecto:14,reflectometri:[0,2,3,4,5,6,7,8,9,10,12],refnx:[3,4,14],refract:[3,6],region:[1,5,9,10],rel:4,relat:8,relationship:1,relev:[9,14],reli:3,render:1,reparameteris:[6,8,9,12,14],repeat:8,repositori:14,repres:[2,12],reproduc:3,requir:[7,14],res1:10,res2:10,resolut:[1,2],respect:[1,4],result:[1,2,3,4,5,6,10],resultant_matrix:3,retriv:1,rev:14,review:14,rewrit:1,rho:[3,4,8],rho_:[4,8],rho_fu_lay:4,rho_fu_wat:4,rho_n:4,rho_ni:8,rho_of_:4,rho_ti:8,rho_to_beta:8,rho_vs_:4,richardson:14,right:[1,4,5],risat:14,robust:10,room:8,root:10,rout:10,rphysap:14,rsta:14,rstl:14,rule:5,s0021889811041446:14,s0921:14,s1359:14,s1600576718017016:14,s1600576718017296:14,s:[0,1,4,8,9,10,11,14],saaka:14,sai:1,same:[1,4,5,6,8,12],sampl:[0,1,2,4,5,8],sanchez:14,sansom:14,satija:14,scale:[1,14],scatter:[0,1,3,5,6,7,9,13,14],sche:14,scherrer:13,schlossman:13,school:14,sci:14,scienc:[2,14],scipi:[1,8,10,12],scope:4,search:[4,14],second:4,section:[2,6,7,10],see:[4,5,6,10],seen:[11,12],select:12,self:9,semi:10,semilog:4,sensit:1,separ:1,seri:[1,3,5,6],set:8,set_xlabel:[1,5,12],set_xlim:5,set_ylabel:[1,5,12],set_ylim:5,shao:14,shape:[3,10],shortest:5,should:[1,4,5,7,9,10,12,14],show:[1,2,3,5,6,8,9,10,12,14],shown:[1,2,3,5,6,9,10,12],si:1,sigma2:5,sigma3:5,sigma5:5,sigma7:5,sigma:[5,12],sigma_:5,sigma_n:12,sign:4,signal:1,silic:14,silicon:[1,5,8],similar:[2,3],simpl:[1,2,4,6,7,8,9,10,11,14],simpli:10,simul:[2,5,6,7,8],sin:[4,9],singl:[9,12],sio_2:1,sit:[9,12],siv11:[1,14],sivia:[1,11,14],sj06:[11,14],skill:14,skip:14,sko19:14,skoda:[13,14],slab:[5,7,9,14],sld_:4,sld_n:4,sld_with_rough:5,sld_x:4,slddb:4,sldn_d2o:4,sldn_h2o:4,sldn_layer:4,sldx_layer:4,sldx_water:4,smooth:[1,5],snell:4,so:12,soc:14,soft:14,solid:[4,14],solubl:9,solut:10,solv:14,solvat:9,solvent:[9,14],some:[0,1,2,5,6,9,10,11,12,14],someth:[0,2,4],son:14,sourc:[4,13,14],sp97:[10,14],space:[0,4,10,14],spallat:[13,14],speak:9,specif:[7,9],spectra:2,specular:14,spin:4,spintron:14,springer:14,sqrt:3,squar:[1,3],sratifi:14,staff:9,standard:[12,13,14],start:[10,11],stat:[10,12],state:11,std:1,step:[1,5,10,11],stephen:13,still:[5,8],storn:14,straight_lin:12,straightforward:7,strand:9,stratifi:3,structur:[1,2,4,7,8,14],studi:[1,2,9,14],subject:14,subplot:[1,5,12],suggest:[11,14],sum:[1,3,4,8],sum_:[4,8,9,12],summat:12,superphas:3,sur:14,sure:14,surfac:[1,3,4,8,14],surfact:14,swarm:10,syntax:4,syntaxerror:4,synthesi:2,system:[1,2,5,6,7,8,9,10,14],t:[10,14],t_t:9,tabl:4,tabul:4,tackl:2,tag:4,tail:9,take:[0,2,10,11],taken:[3,6],tan80:[9,14],tanford:[9,14],techniqu:[7,14],technolog:13,temperatur:[4,8],tend:1,term:[6,8,9,12],text:1,textbook:4,textquotesingl:14,than:[1,5,8,10],thei:[1,10,14],them:[5,12],theorem:11,theori:[1,14],therefor:[1,2,5,7,8,10,11],thermal:4,theta:[9,10,11,12],thi:[0,1,2,3,4,5,6,7,8,9,10,11,12],thick:[1,3,5,6,9],thin:5,thing:2,think:7,thopson:4,those:[4,11],thought:1,three:[2,8],through:[3,5,6,14],thu:4,thumb:5,tight_layout:12,time:[0,1,5,8],times10:1,tiqu:14,titanium:8,tkh:[10,14],togeth:3,tom:13,tool:[1,2,7],top4:10,top:1,toperverg:14,total:14,toward:[1,10,14],tradit:[8,9,14],tran:14,transform:[2,3,6,14],translat:7,transmitt:3,treec:14,trigonometri:9,tude:14,turn:10,tutori:[11,14],two:[1,2,3,5,6,7,9,10],txt:12,typic:[2,4,5,6,7,8,9,10,12],tz07:14,u:8,uantum:14,uncertainti:12,unclear:8,under:[1,3,9],underli:[2,12],understand:[1,2,3,6,7,11,14],unintuit:7,uniqu:10,unit:[0,4],unitregistri:8,univers:[13,14],unlik:9,unphys:[1,5],unspecifi:4,until:8,up:10,uphil:10,us:[2,3,4,5,7,8,9,10,11,12,14],useless:1,user:[1,14],utilis:1,valid:4,validated_bi:4,valu:[1,3,4,8,9,10,11,12],valuabl:1,vari:[8,10],variabl:8,varieti:10,variou:4,vector:3,veri:[5,9,10],verr:14,version:1,vibrat:2,video:0,visualis:[1,5],vot:14,w:[8,14],wa:[1,2,6,11,14],wai:[2,4,9],watch:0,water:[4,9,14],wave:[3,6],wavelength:4,wavevector:[1,3],wc19:14,we:[0,1,2,4,5,6,7,8,9,11,12,14],webpag:14,weight:8,welbourn:14,well:2,were:11,what:14,when:[3,6,9,10,11,12],where:[1,2,3,4,5,6,8,9,10,11,12],which:[0,1,3,5,8,9,10,11,12],width:5,wiesendang:14,wikipedia:4,wilei:14,within:11,without:[1,2,5],word:[2,14],work:[5,7,14],workflow:2,workshop:14,wormington:14,would:[1,2,5,6,9,11],wpmb99:[10,14],written:[1,12],wwe:9,x:[1,10,12,14],x_n:12,xlabel:[1,3,4,5,9,10],xlim:4,xy:9,y:[10,11,12,14],y_fit:12,y_n:12,ylabel:[1,3,4,5,9,10],ylim:4,you:[1,2,11,12,14],your:[9,14],yscale:[1,3,5],yy:12,z:[1,3,5,6],zabel:14,zentrum:13,zero:3,zeros_lik:[1,3],zhou:14,zorder:12,zq:1,ztbt07:14},titles:["An introduction to Fourier transforms","Fourier transforms for reflectometry analysis","What is model-dependent analysis?","How we calculate the reflectivity of a slab model","Optical parameters for neutrons and x-rays","Roughness and microslicing","The \u201cslab model\u201d","A case for model reparameterisation","NiTi multilayer example","Phospholipid monolayer example","How do we maximise the likelihood?","How to leverage our prior knowledge?","What is the likelihood?","Contributors","A Guide to Reflectometry"],titleterms:{"case":7,"do":10,A:[7,11,14],The:[1,6],about:14,algorithm:3,an:[0,1],analysi:[1,2],angl:9,approxim:1,area:9,bibliographi:14,born:1,calcul:3,chain:9,contrast:4,contributor:13,databas:4,densiti:[4,8],depend:2,differ:4,exampl:[1,8,9],fourier:[0,1],fresnel:4,from:4,gradient:10,guid:14,how:[3,10,11],implic:4,index:4,interfac:1,interfaci:5,introduct:0,knowledg:11,layer:1,length:[4,8],leverag:11,likelihood:[10,12],mass:8,materi:14,maximis:10,method:10,microsl:5,model:[2,3,6,7],molecul:9,monolay:9,multilay:8,neutron:4,niti:8,optic:4,orso:4,our:11,oxid:1,paramet:4,per:9,phospholipid:9,prior:11,problem:5,rai:4,reflect:[3,4,14],reflectometri:[1,14],refract:4,reparameteris:7,retreiv:4,rough:5,scatter:[4,8],singl:1,slab:[3,6],sld:4,specular:1,stochast:10,term:4,thi:14,tilt:9,transform:[0,1],uniform:11,us:1,vs:14,we:[3,10],what:[0,2,12],x:4}})

diff --git a/1_the_fourier_transform/fourier_transforms_for_reflectometry_analysis.html b/1_the_fourier_transform/fourier_transforms_for_reflectometry_analysis.html
@@ -516,7 +516,7 @@ R(q) \approx \frac{16\pi^2}{q^4} \bigg| \int^{\infty}_{-\infty} \frac{\mathrm{d}
 <p>where <span class="math notranslate nohighlight">\(\beta(z)\)</span> is the scattering length density profile as a function of <span class="math notranslate nohighlight">\(z\)</span>.</p>
 <div class="admonition warning">
 <p class="admonition-title">Warning</p>
-<p>The Born approximation is <strong>not</strong> commonly used from reflectometry data analysis.
+<p>The Born approximation is <strong>not</strong> commonly used for the quantitative analysis of reflectometry.
 It can however be a valuable tool for quick data exploration and is important pedogogically to understand reflectivity analysis.</p>
 </div>
 </section>

diff --git a/5_fitting_processes_and_problems/how_do_we_maximise_the_likelihood.html b/5_fitting_processes_and_problems/how_do_we_maximise_the_likelihood.html
@@ -616,7 +616,7 @@ This is necessary as, as we can see from the overall maximum, the differential e
 </div>
 <div class="cell_output docutils container">
 <img alt="../_images/how_do_we_maximise_the_likelihood_6_0.png" src="../_images/how_do_we_maximise_the_likelihood_6_0.png" />
-<div class="output stream highlight-myst-ansi notranslate"><div class="highlight"><pre><span></span>Overall Maximum: [8.18200033 2.06760142]
+<div class="output stream highlight-myst-ansi notranslate"><div class="highlight"><pre><span></span>Overall Maximum: [7.88828221 2.09425021]
 </pre></div>
 </div>
 </div>
